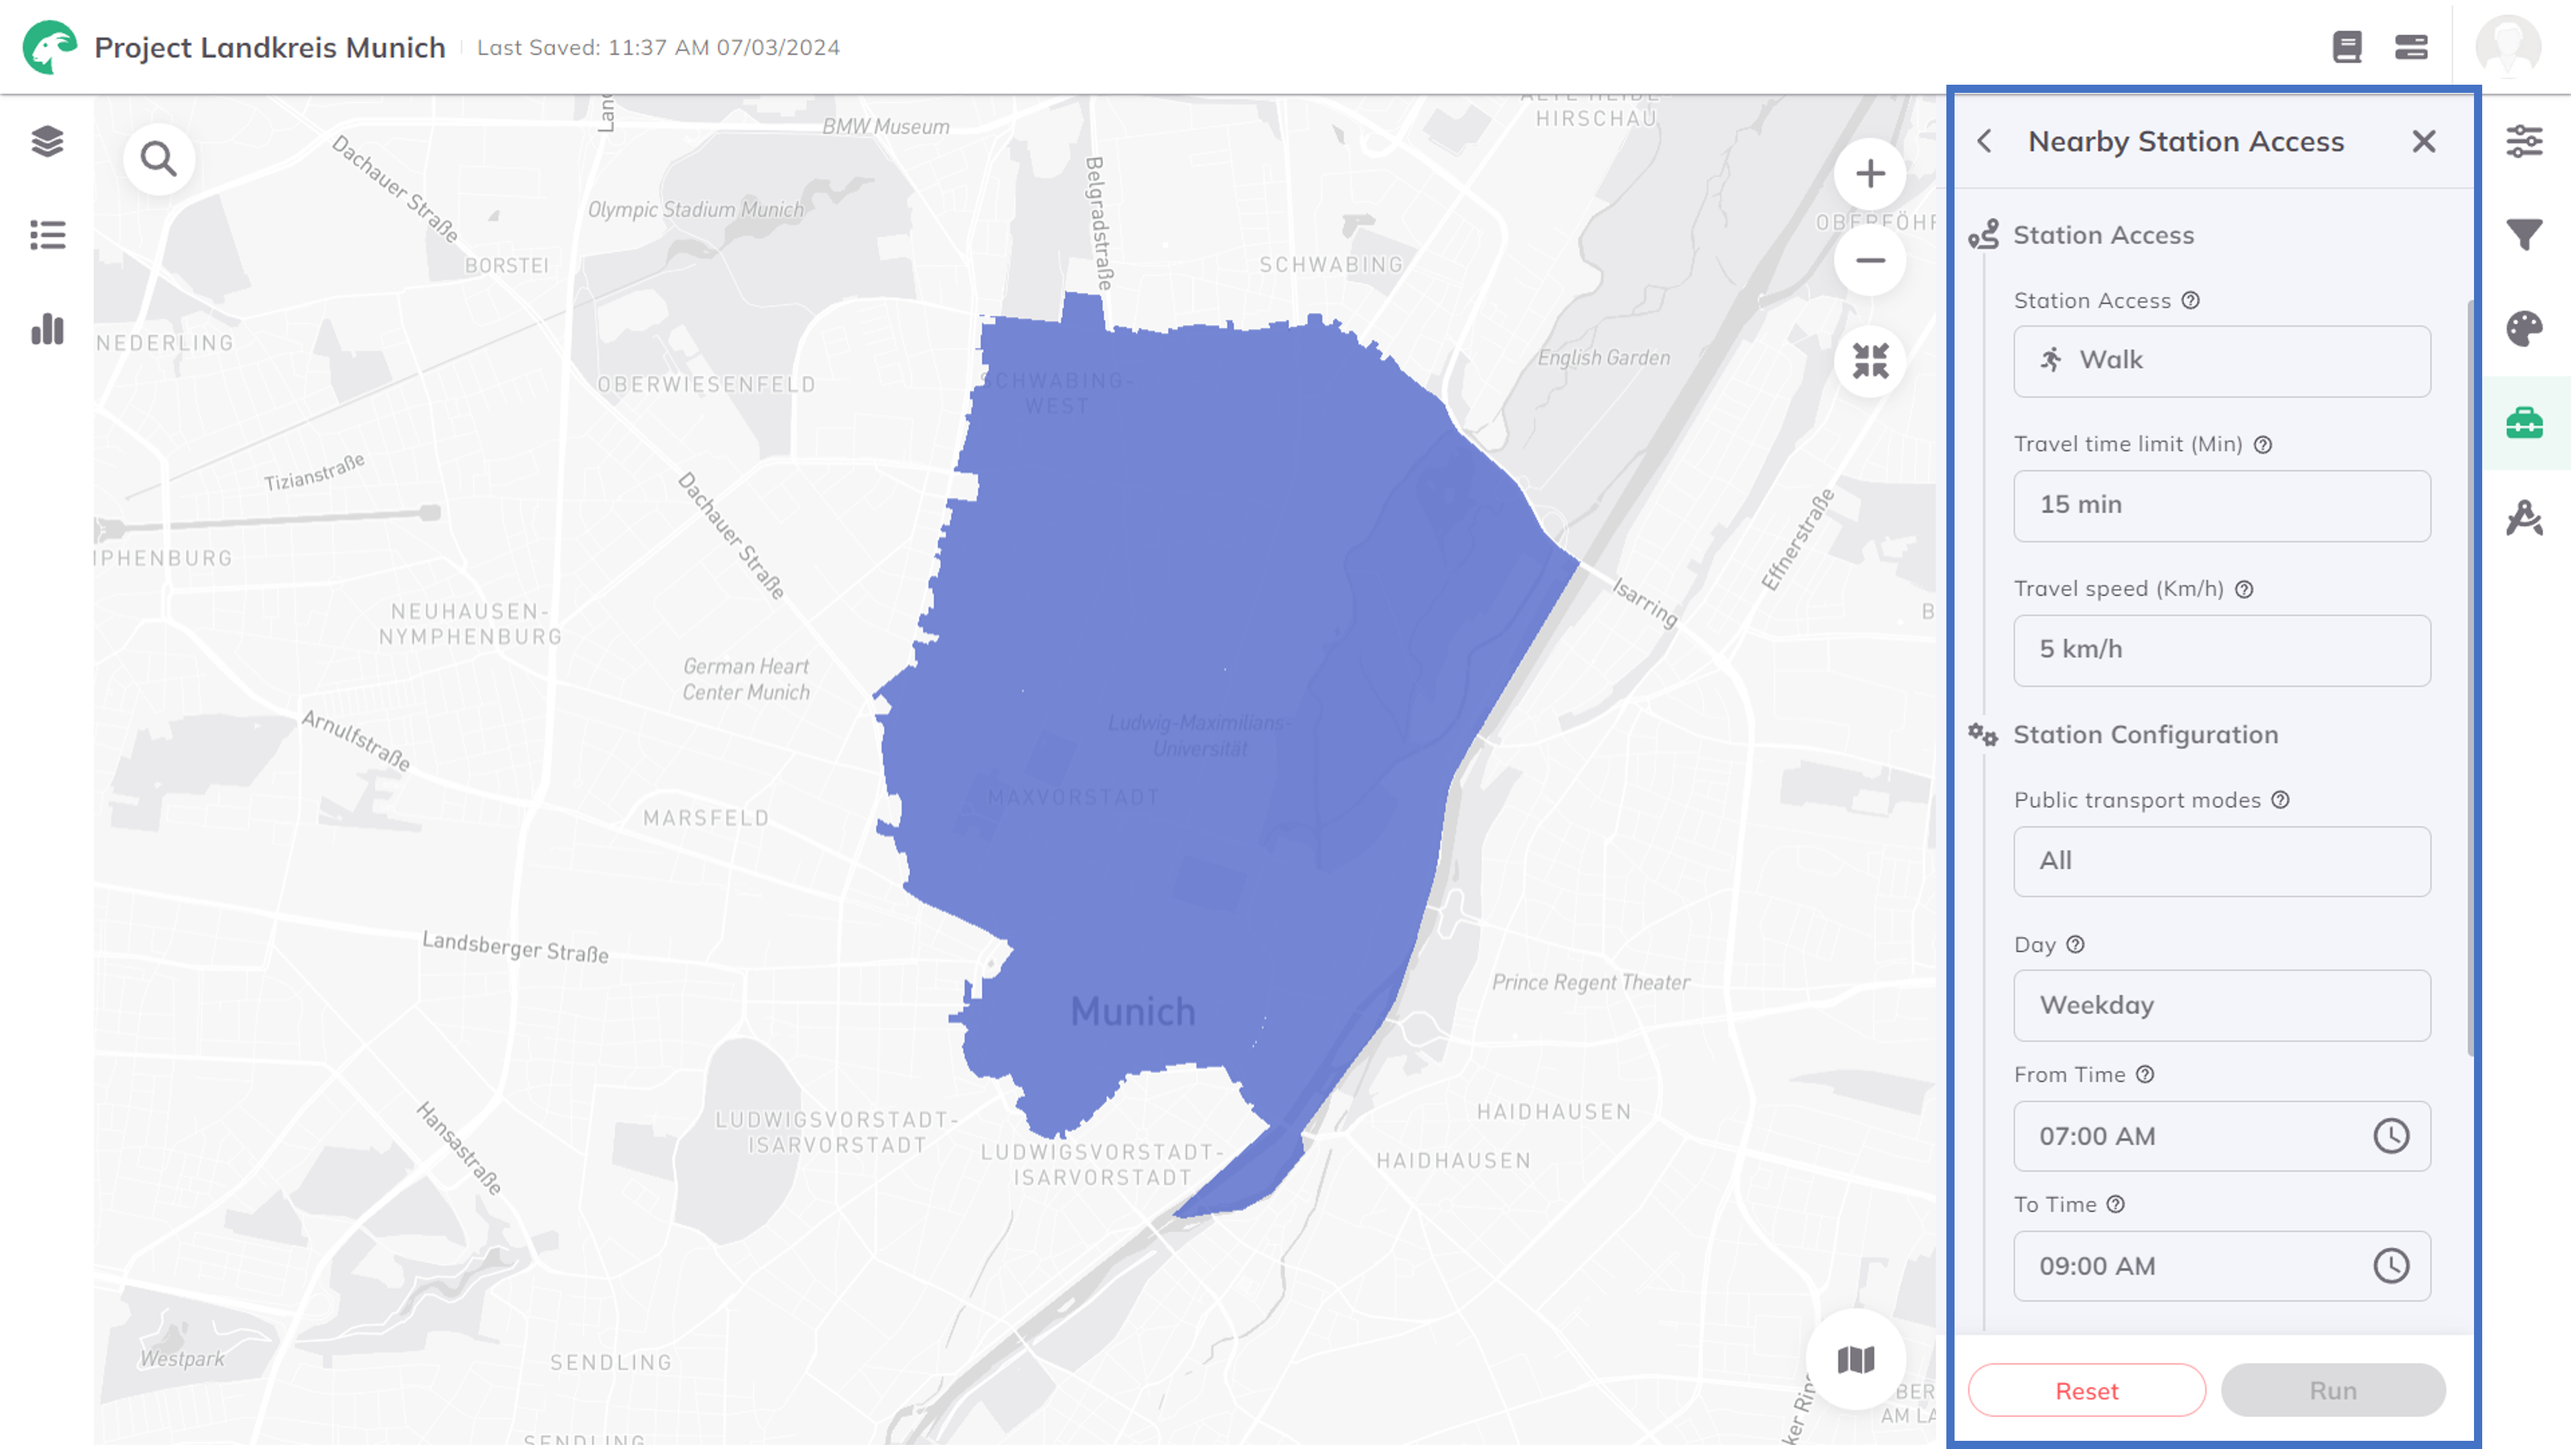
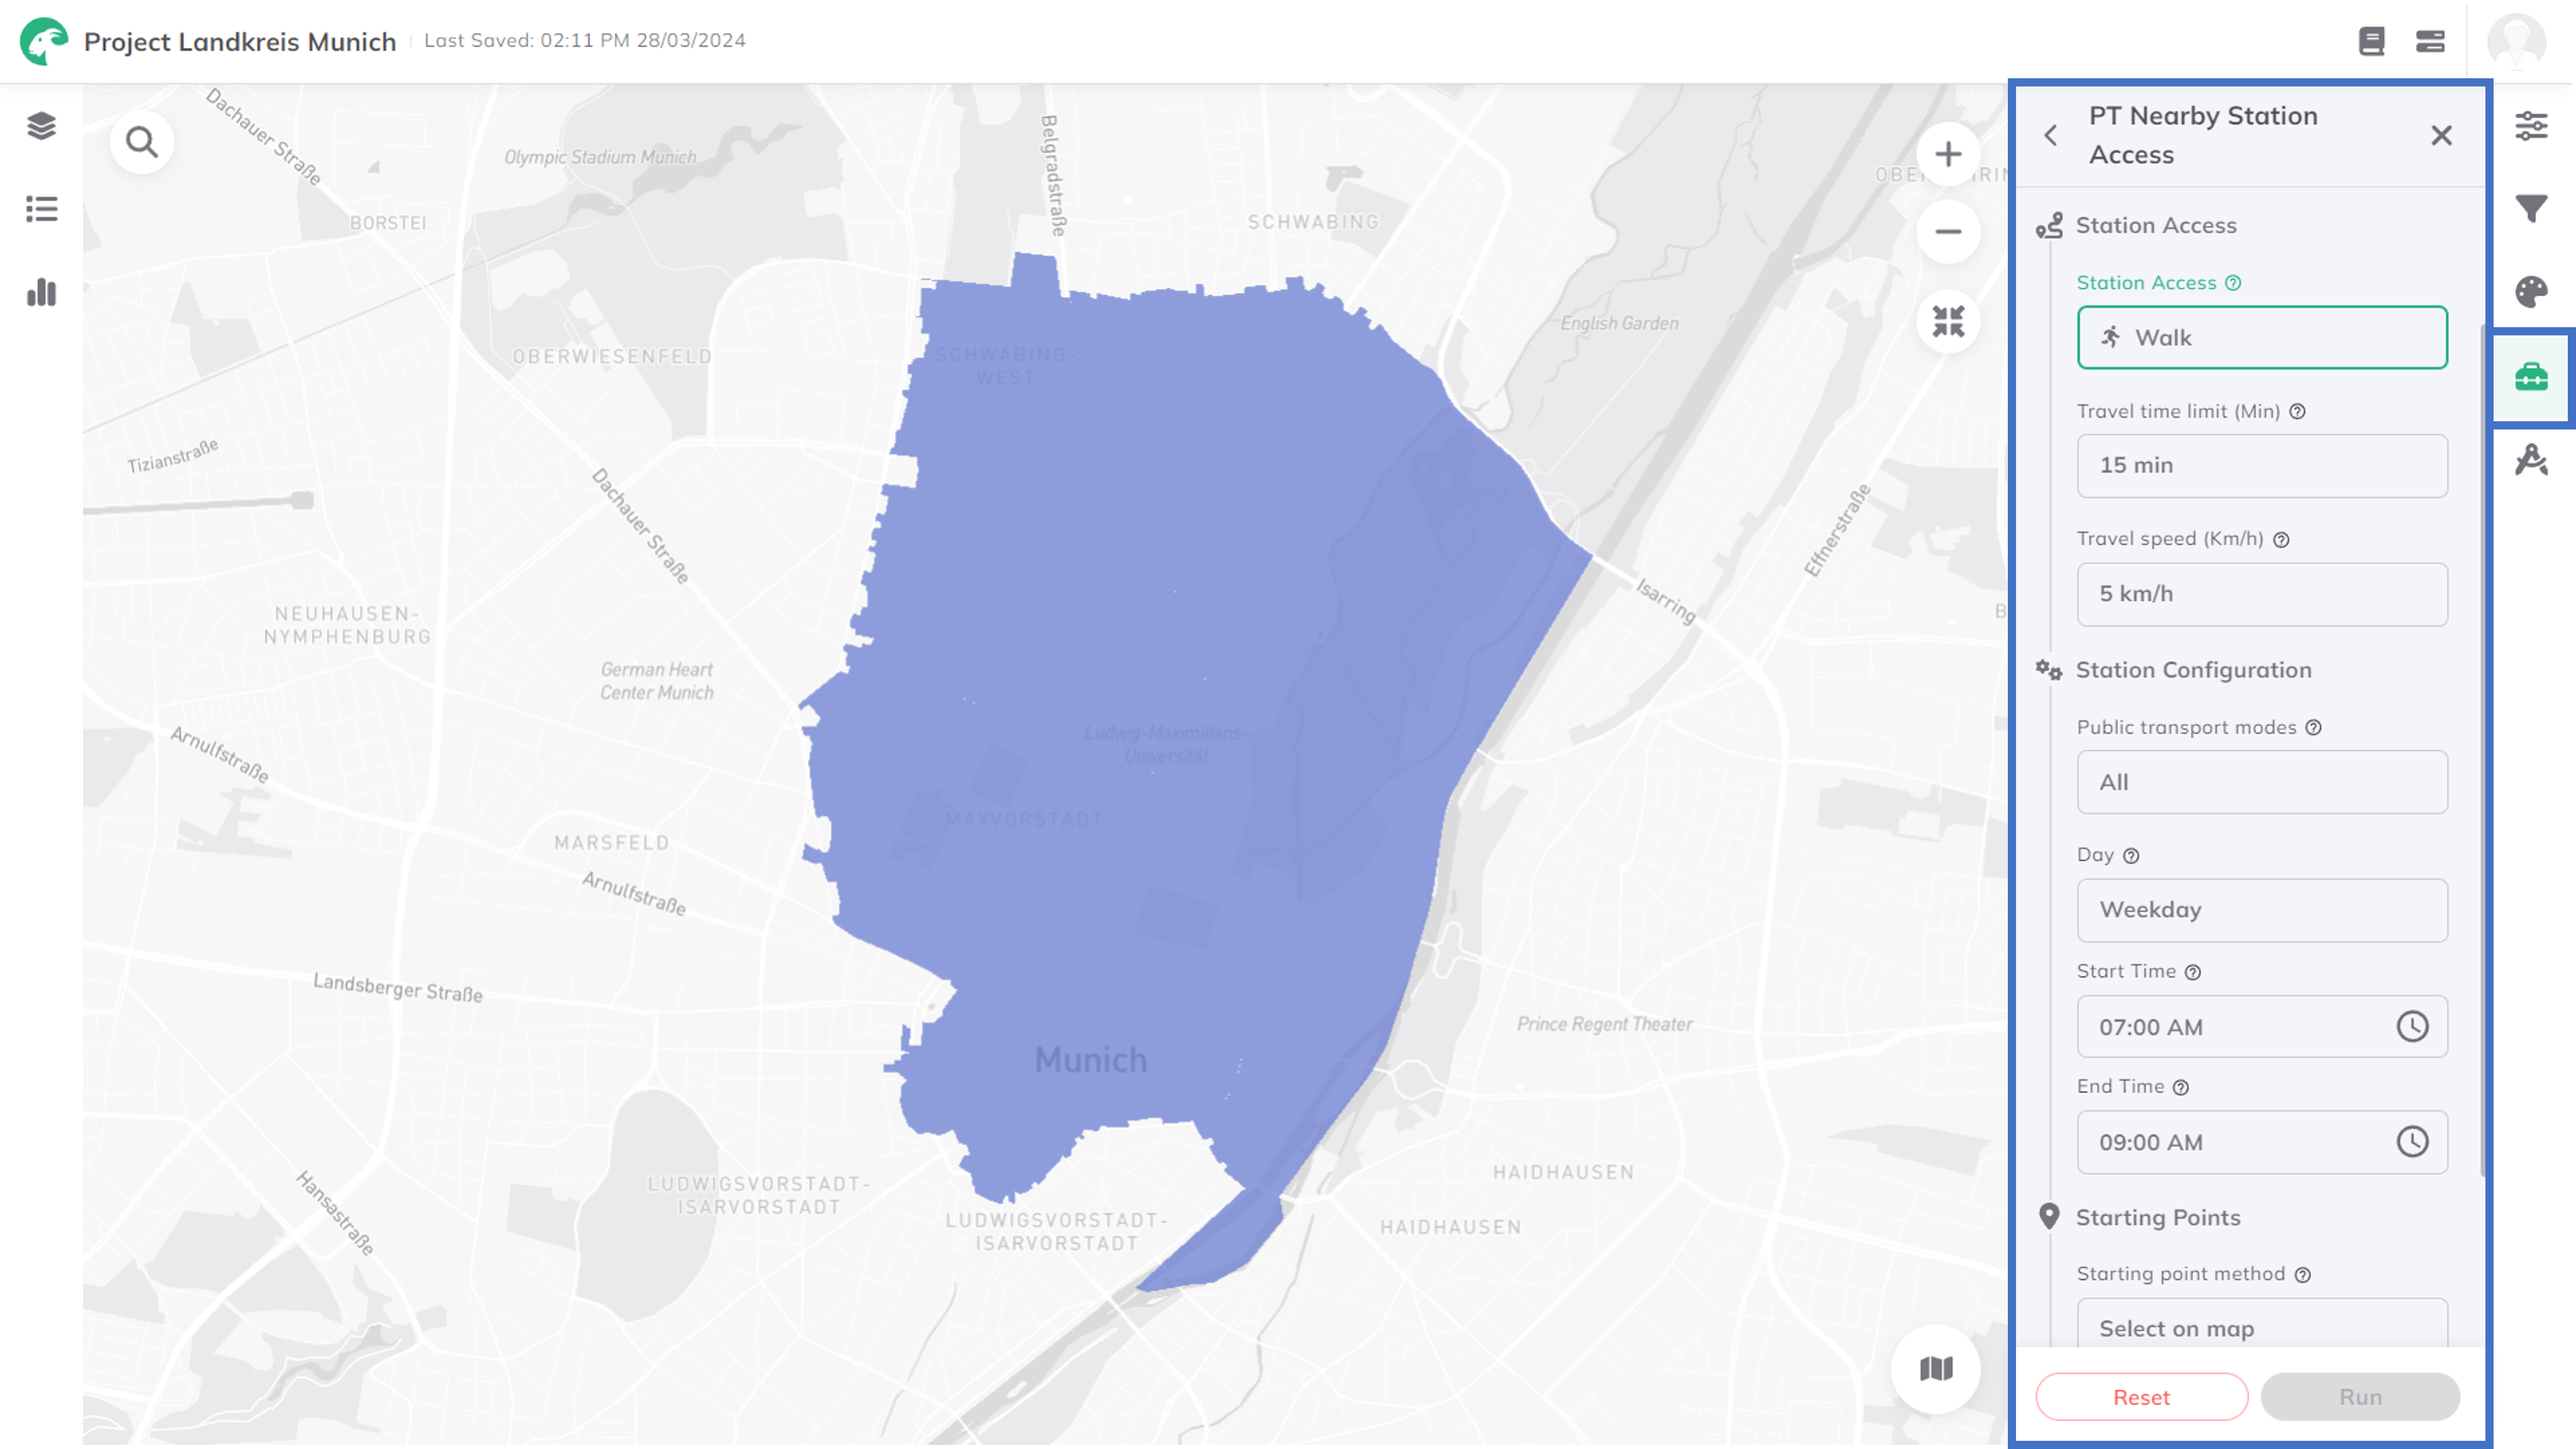
updates on nearby stations

diff --git a/docs/toolbox/accessibility_indicators/nearby_stations.md b/docs/toolbox/accessibility_indicators/nearby_stations.md
@@ -8,7 +8,7 @@ import TabItem from '@theme/TabItem';
 
 # PT Nearby Stations
 
-The **PT Nearby Stations** tool provides an overview of all public transport stops and connections in the proximity of selected starting point(s).
+The **PT Nearby Station Access** analysis is used to find stops and their departures that are accessible by walking/cycling.
 
 ## 1. Explanation
 
@@ -73,7 +73,7 @@ In case you need to perform analysis beyond this geofence, fell free to contact 
 
 <div class="step">
   <div class="step-number">6</div>
-  <div class="content">Select for which <code>Day</code> and time (<code>From Time</code> and <code>To Time</code>) you would like to see the public transport connections.</div>
+  <div class="content">Select for which <code>Day</code>, <code>Start Time</code> and <code>End Time</code> you would like to see the public transport connections.</div>
 </div>
 
 ![Configurations for Public Transport Nearby Stations](/img/toolbox/accessibility_indicators/nearby_stations/nearby_stations_config.png "Configurations for Public Transport Nearby Stations")
